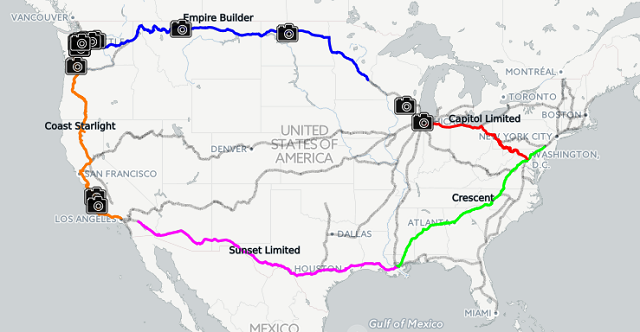
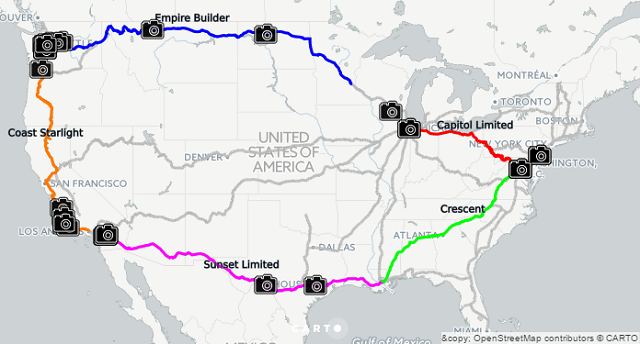
abt update

diff --git a/posts/AmericaByTrain/longway/index.html b/posts/AmericaByTrain/longway/index.html
@@ -1,0 +1,1 @@
+<iframe width="100%" height="520" frameborder="0" src="https://williamcapecchi.carto.com/builder/13e8822e-3968-11e7-bf39-0ecd1babdde5/embed" allowfullscreen webkitallowfullscreen mozallowfullscreen oallowfullscreen msallowfullscreen></iframe>

diff --git a/posts/AmericaByTrain/segmentize.py b/posts/AmericaByTrain/segmentize.py
@@ -1,0 +1,52 @@
+#Segmentize is meant to go through and link all the track segments between
+#junctions making it easier to recursively find all the routes I'm looking for
+
+def main(newdata=False,
+         cont=False,
+         newredund=False,
+         arrive=True):
+    import json
+    import numpy as np
+    import os
+    import route_builder
+    import glob
+    import find_redundancy
+
+    local = 'C:/Python34/America_By_Train/'
+    rb = local+'route_builder/'
+    direc = 'C:/Users/Owner/Documents/GitHub/capecchi.github.io/posts/AmericaByTrain/'
+
+    #arrow.py contains the code for creating the files endpts.npz and redundant.npy
+    f=np.load(local+'endpts.npz')
+    index = f['index']
+    strt = f['strt']
+    end = f['end']
+    cid = f['cid']
+    stpaul = f['stpaul']
+    eb_block = f['eb_block']
+    seattle = f['seattle']
+    la = f['la']
+    cs_block = f['cs_block']
+    palmsprings = f['palmsprings']
+    neworleans_end = f['neworleans_end']
+    sl_block = f['sl_block']
+    neworleans_start = f['neworleans_start']
+    philly = f['philly']
+    cr_block = f['cr_block']
+    dc = f['dc']
+    chicago = f['chicago']
+    cl_block = f['cl_block']
+
+#I really don't want to do this so I'm not gonna-- (it needs editing below here)
+    print('finding segments')
+    ptA = [stpaul]
+    iredund = np.load(local+'redundant.npy')
+    #for i in eb_block: iredund = np.append(iredund,i)
+    iarr = np.array([],dtype=int)
+    level = 0
+    with np.load(partials[0]) as f:
+        ptA = f['ptA']
+        iarr = f['iarr']
+    os.remove(partials[0])
+    route_builder.main(ptA,iarr,seattle,rb+'empire_builder',level,\
+                       iredund,arrive=arrive)

diff --git a/_posts/2016-03-15-america-by-train.md b/_posts/2016-03-15-america-by-train.md
@@ -25,9 +25,7 @@ My train adventure began, interestingly, with a bus ride to St. Paul, MN where I
 Departing from St. Paul late in the evening I quickly fell asleep and awoke in the plains.
 
 
-<h2 id="data">Data</h2>
-
-**Data and mapping (the fun stuff)**
+<h2 id="data">Data and Mapping (the fun stuff)</h2>
 
 I wanted to create a visualization for this post using CartoDB primarily because I haven't used it before and wanted to familiarize myself with it.
 
@@ -71,6 +69,6 @@ By compiling a list of these redundancies and feeding them into the recursive ro
 ![image](/images/posts/abt_myroutes.png)
 **The routes of my tour**
 
-It is amusing, however, to see what the computer can come up with. I took the time to write a recursive algorithm, may as well have some fun with it. Here are all the ways to get from St. Paul to Seattle...
+It is amusing, however, to see what the computer can come up with. I took the time to write a recursive algorithm, may as well have some fun with it. I am working on a way to present all the possible routes from St. Paul to Seattle, but there are many possible routes, and displaying them clearly is difficult. Perhaps in the future I'll create a gif or something. For now, here is one of the longest ways to get from St. Paul to Seattle (without doubling back over any already-traveled track segment).
 
- (image coming soon... still crunching!)
+[![image](/images/posts/abt_longway.png)](/posts/AmericaByTrain/longway)
